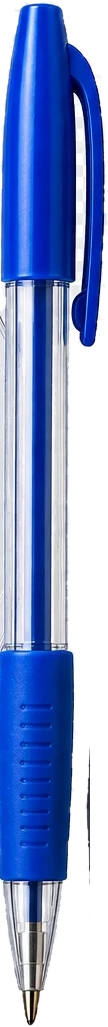
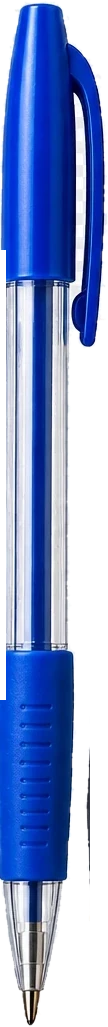
Tools concept: tighter spacing, complete set square, no hover labels
Rebuild the set square as a full see-through triangle (its far corner
was hidden behind the blue pen in the photo), keeping its printed scale.
Bring the tools closer together and drop the name tags on hover.

Claude-Session: https://claude.ai/code/session_01VkNXkYhNUFVsheW2ZXUG2V

Changed region(s): [[0.0, 0.2181, 0.0556, 0.6855]]

diff --git a/tampere-design-page/alt-7.html b/tampere-design-page/alt-7.html
@@ -580,7 +580,7 @@ body { font: 400 17px/1.55 var(--f-body); -webkit-font-smoothing: antialiased; o
   .park-shot::after { background: linear-gradient(180deg, rgba(8,20,40,.5), transparent 45%); }
 }
 /* ===== Tools concept ===== */
-:root { --sp: 1.85; --th: min(60svh, 660px, 88vw); --f-busted: "Broke Grotesk", "Bricolage Grotesque", "Helvetica Neue", Arial, sans-serif; }
+:root { --sp: 1.32; --th: min(60svh, 660px, 88vw); --f-busted: "Broke Grotesk", "Bricolage Grotesque", "Helvetica Neue", Arial, sans-serif; }
 .top { display: flex; flex-direction: column; align-items: center; min-height: 100svh; padding-block: 92px 0; overflow: visible; }
 .top.dotted { background-image: radial-gradient(circle, rgba(20,20,20,.16) 1px, transparent 1.4px); background-size: 22px 22px; background-position: center top; }
 .top .hero { flex: 1; display: grid; place-content: center; justify-items: center; padding-block: 8px 32px; }
@@ -608,13 +608,7 @@ body { font: 400 17px/1.55 var(--f-body); -webkit-font-smoothing: antialiased; o
   animation: rise 1s cubic-bezier(.2,.9,.3,1.1) both, nudge .9s ease-in-out both; animation-delay: calc(.35s + var(--i) * .08s), calc(1.7s + var(--i) * .12s);
 }
 .tool img { display: block; width: 100%; height: auto; user-select: none; -webkit-user-drag: none; pointer-events: none; }
-.tool-tag {
-  position: absolute; left: 50%; bottom: calc(100% + 10px); transform: translate(-50%, 6px) rotate(-4deg); white-space: nowrap;
-  padding: 4px 10px; border-radius: 999px; background: var(--ink); color: #fff; font: 600 20px/1 "Caveat", "Segoe Print", cursive;
-  opacity: 0; transition: opacity .2s, transform .3s cubic-bezier(.3,1.6,.5,1); pointer-events: none;
-}
 .tool.lift { z-index: 4; filter: drop-shadow(0 22px 20px rgba(20,20,20,.25)); }
-.tool.lift .tool-tag { opacity: 1; transform: translate(-50%, 0) rotate(-4deg); }
 .tool:nth-child(odd).lift { transform: translateY(-11%) rotate(-12deg); }
 .tool:nth-child(even).lift { transform: translateY(-11%) rotate(11deg); }
 .tool.lean-l { transform: rotate(-4deg); }
@@ -624,8 +618,8 @@ body { font: 400 17px/1.55 var(--f-body); -webkit-font-smoothing: antialiased; o
 /* a one-off wave across the tools after they arrive, so it is clear they react */
 @keyframes nudge { 0%, 100% { translate: 0 0; rotate: 0deg; } 35% { translate: 0 -5%; rotate: -5deg; } 70% { translate: 0 -2%; rotate: 3deg; } }
 .top + .sec { padding-top: calc(var(--th) / 3 + clamp(64px, 8vw, 112px)); }
-@media (max-width: 900px) { :root { --sp: 1.5; } }
-@media (max-width: 600px) { :root { --sp: 1.3; } .top { padding-top: 96px; } .tt { font-size: clamp(2.6rem, 13vw, 4rem); } }
+@media (max-width: 900px) { :root { --sp: 1.25; } }
+@media (max-width: 600px) { :root { --sp: 1.15; } .top { padding-top: 96px; } .tt { font-size: clamp(2.6rem, 13vw, 4rem); } }
 @media (prefers-reduced-motion: reduce) { .tool { animation: none !important; transition: none; } .to-wrap, .ers { transition: none; } }
 </style>
 </head>
@@ -717,13 +711,13 @@ body { font: 400 17px/1.55 var(--f-body); -webkit-font-smoothing: antialiased; o
     </div>
   </div>
   <div class="tools" id="tools">
-    <span class="tool" style="--cx:-0.3274; --w:0.0903; --t:0.1347; --i:0"><img src="assets/tools/green-pen.webp" alt="Green ballpoint pen" draggable="false"><span class="tool-tag" aria-hidden="true">pen</span></span>
-    <span class="tool" style="--cx:-0.1968; --w:0.1710; --t:0.1073; --i:1"><img src="assets/tools/set-square.webp" alt="Set square" draggable="false"><span class="tool-tag" aria-hidden="true">set square</span></span>
-    <span class="tool" style="--cx:-0.0677; --w:0.0871; --t:0.1605; --i:2"><img src="assets/tools/blue-pen.webp" alt="Blue ballpoint pen" draggable="false"><span class="tool-tag" aria-hidden="true">ballpoint</span></span>
-    <span class="tool" style="--cx:0.0282; --w:0.1339; --t:0.1565; --i:3"><img src="assets/tools/compass.webp" alt="Drafting compass" draggable="false"><span class="tool-tag" aria-hidden="true">compass</span></span>
-    <span class="tool" style="--cx:0.1250; --w:0.0597; --t:0.0492; --i:4"><img src="assets/tools/pencil.webp" alt="Pencil" draggable="false"><span class="tool-tag" aria-hidden="true">pencil</span></span>
-    <span class="tool" style="--cx:0.2218; --w:0.1081; --t:0.0000; --i:5"><img src="assets/tools/ruler.webp" alt="Steel ruler" draggable="false"><span class="tool-tag" aria-hidden="true">ruler</span></span>
-    <span class="tool" style="--cx:0.3242; --w:0.0968; --t:0.2452; --i:6"><img src="assets/tools/highlighter.webp" alt="Highlighter" draggable="false"><span class="tool-tag" aria-hidden="true">highlighter</span></span>
+    <span class="tool" style="--cx:-0.3274; --w:0.0903; --t:0.1347; --i:0"><img src="assets/tools/green-pen.webp" alt="Green ballpoint pen" draggable="false"></span>
+    <span class="tool" style="--cx:-0.1585; --w:0.2427; --t:0.1048; --i:1"><img src="assets/tools/set-square.webp" alt="Set square" draggable="false"></span>
+    <span class="tool" style="--cx:-0.0677; --w:0.0871; --t:0.1605; --i:2"><img src="assets/tools/blue-pen.webp" alt="Blue ballpoint pen" draggable="false"></span>
+    <span class="tool" style="--cx:0.0282; --w:0.1339; --t:0.1565; --i:3"><img src="assets/tools/compass.webp" alt="Drafting compass" draggable="false"></span>
+    <span class="tool" style="--cx:0.1250; --w:0.0597; --t:0.0492; --i:4"><img src="assets/tools/pencil.webp" alt="Pencil" draggable="false"></span>
+    <span class="tool" style="--cx:0.2218; --w:0.1081; --t:0.0000; --i:5"><img src="assets/tools/ruler.webp" alt="Steel ruler" draggable="false"></span>
+    <span class="tool" style="--cx:0.3242; --w:0.0968; --t:0.2452; --i:6"><img src="assets/tools/highlighter.webp" alt="Highlighter" draggable="false"></span>
   </div>
   <div class="cursor" id="cursor" aria-hidden="true" hidden>
     <svg viewBox="0 0 22 22"><path d="M2 1.5 L2 17.5 L6.4 13.4 L9.3 20 L12.2 18.7 L9.4 12.3 L15.4 12.1 Z" fill="var(--blue)" stroke="#fff" stroke-width="1.5" stroke-linejoin="round"/></svg>
